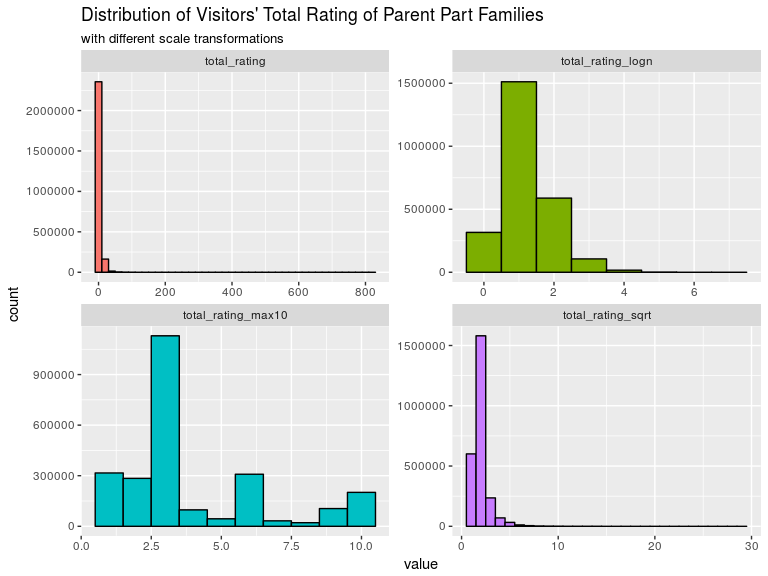
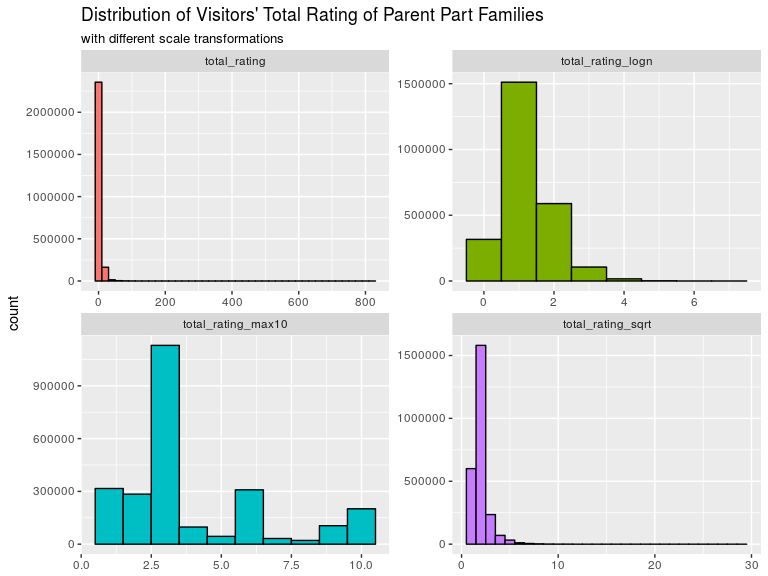
updated all sections leading up to collaborative filtering rec system development.

diff --git a/EDA_and_collaborative_filtering.md b/EDA_and_collaborative_filtering.md
@@ -11,13 +11,13 @@
     -   [How many unique visitors have interacted with each Parent Family?](#how-many-unique-visitors-have-interacted-with-each-parent-family)
         -   [Impact of Long Tail Distributions](#impact-of-long-tail-distributions)
     -   [How many PartNumbers fall into each Parent Family?](#how-many-partnumbers-fall-into-each-parent-family)
-    -   [(TO EXPLORE) Do Parents with more PartNumbers also have more overall visitor clicks?](#to-explore-do-parents-with-more-partnumbers-also-have-more-overall-visitor-clicks)
+    -   [Do Parents with more PartNumbers also have more overall visitor clicks?](#do-parents-with-more-partnumbers-also-have-more-overall-visitor-clicks)
     -   [What types of click Actions do the visitors take?](#what-types-of-click-actions-do-the-visitors-take)
     -   [(TO EXPLORE) What percent of the time is selecting a part a precursor to adding to cart?](#to-explore-what-percent-of-the-time-is-selecting-a-part-a-precursor-to-adding-to-cart)
 -   [More Data Wrangling: Creating Ratings](#more-data-wrangling-creating-ratings)
     -   [Convert Actions to Implicit Ratings](#convert-actions-to-implicit-ratings)
     -   [Creating a weighted Total Rating per item](#creating-a-weighted-total-rating-per-item)
-    -   [Total Rating of Parent by Visitor](#total-rating-of-parent-by-visitor)
+    -   [Different Scale Transformations for Total\_ratings](#different-scale-transformations-for-total_ratings)
     -   [Setting up a User Ratings Matrix](#setting-up-a-user-ratings-matrix)
 -   [Collaborative Filtering Algorithms](#collaborative-filtering-algorithms)
 -   [User Based Collaborative Filtering](#user-based-collaborative-filtering)
@@ -283,7 +283,7 @@ user_items %>%
              color = "black", linetype = "dashed", size = 0.5) +
   geom_text(aes(0,.002, family = "courier", label = paste("median = ", median(unique_part_count))), 
             nudge_x = 600, color = "black", size = 4.5) +
-  labs(title = 'Distribution of Unique PartNumber Interactions by each Visitor',
+  labs(title = 'Distribution of how many PartNumbers each Visitor interacted with',
        subtitle = 'binwidth of 100',
        x = 'Unique PartNumbers per Visitor')
 ```
@@ -309,7 +309,7 @@ user_items %>%
              color = "black", linetype = "dashed", size = 0.5) +
   geom_text(aes(0,.004, family = "courier", label = paste("median = ", median(unique_parent_count))), 
             nudge_x = 300, color = "black", size = 4.5) +
-  labs(title = 'Distribution of Unique Parent Interactions',
+  labs(title = 'Distribution of how many Parent categories each Visitor interacted with',
        subtitle = 'binwidth of 50',
        x = 'Unique Parent category per Visitor')
 ```
@@ -336,7 +336,7 @@ user_items %>%
              color = "black", linetype = "dashed", size = 0.5) +
   geom_text(aes(0,.04, family = "courier", label = paste("median = ", median(unique_users_count))), 
             nudge_x = 60, color = "black", size = 4.5) +
-  labs(title = 'Distribution of Unique Visitor Interactions for each PartNumber',
+  labs(title = 'Distribution of Unique Visitors for each PartNumber',
        subtitle = 'binwidth of 10',
        x = 'Unique Visitors per PartNumber (upper limit coerced to 500)')
 ```
@@ -404,22 +404,13 @@ user_items %>%
        Min. 1st Qu.  Median    Mean 3rd Qu.    Max. 
        1.00    2.00    6.00   15.31   14.00  786.00 
 
-### (TO EXPLORE) Do Parents with more PartNumbers also have more overall visitor clicks?
+### Do Parents with more PartNumbers also have more overall visitor clicks?
 
-IF we roll PartNumbers up to the parent level, there may be a potential concern that the frequency of ratings per a Parent category may be a function of the diversity of PartNumbers that make up the Parent. If this is the case, we'd likely see a correlation pattern between the frequency of PartNumbers per Parent and the number of unique visitors per Parent. In other words, the most popular parents could just be the ones with the most PartNumbers in these data.
+When we roll PartNumbers up to the parent level, the number of different users who interact with a Parent category may be a function of the tally of different PartNumbers that inheret from the Parent. If this is the case, we'd likely see a correlation between the frequency of PartNumbers per Parent and the number of unique visitors per Parent. Collaborative filtering methods are notorious for being biased by the the most popularly rated items, as those ratings will be a large influence in measuring inter-user similarity (user-based collaborative filtering) or inter-item similarity (item-based collaborative filtering).
 
-That could be a potential source of concern or area for further research in these data as collaborative filtering recommendations can be influenced by the most popular items.
+![](EDA_and_collaborative_filtering_files/figure-markdown_github/unnamed-chunk-24-1.png)
 
-``` r
-user_items %>%
-  group_by(Parent) %>%
-  distinct(VisitorId) %>% # only keep distinct visitors per Item.
-  summarize(unique_users_count = n()) %>%
-  with(summary(unique_users_count))
-```
-
-       Min. 1st Qu.  Median    Mean 3rd Qu.    Max. 
-       1.00   18.00   41.00  105.62   99.75 7063.00 
+However, this may be a necessary trade-off for these types of recommender systems as the more items in common that any pair of users have rated, the more robust the measures of similarity are, from which new recommendations can be made for items. For these algorithms to work well, it is important to adequately measure similar users or items, which is already difficult with very sparse matrices filled with primarily missing entries.
 
 ### What types of click Actions do the visitors take?
 
@@ -602,7 +593,7 @@ user_ratings <- user_items %>%
   arrange(VisitorId, total_rating)
 ```
 
-### Total Rating of Parent by Visitor
+### Different Scale Transformations for Total\_ratings
 
 I came up with 3 initial different ways to transform the total\_rating per Parent category for every user to tighten the distribution of total\_ratings. The 3 other transformations are a lognormal transformation, square root transformation, and coercing the upper limit to a max value of 10.
 
@@ -616,7 +607,8 @@ tidy_ratings %>%
   geom_histogram(data = filter(tidy_ratings, rating_type != "total_rating"), binwidth = 1, color = "black") + 
   facet_wrap(~ rating_type, scales = "free") +
   labs(title = "Distribution of Visitors' Total Rating of Parent Part Families",
-       subtitle = "with different scale transformations") +
+       subtitle = "with different scale transformations",
+       x = NULL) +
   guides(fill = FALSE) +
   scale_y_continuous(labels = function(n) format(n, scientific = FALSE)) # raw frequency scale
 ```
@@ -635,11 +627,11 @@ remove(tidy_ratings)
      3rd Qu.:  6.000   3rd Qu.: 2.449    3rd Qu.:1.792     3rd Qu.: 6.000    
      Max.   :818.000   Max.   :28.601    Max.   :6.707     Max.   :10.000    
 
-We can also look at the standard deviation for each of the 4 different total\_ratings too. Naturally, the raw total\_ratings will have the largest standardized variance b/c of its extreme right-skew. When applying a sqrt() or log() transformation, we see that the scores seem to be pretty scrunched together. Using a coercion method, such as capping the upper limit at a max total\_rating of 10 seems to balance keeping the scores in a reasonable range while allowing for variance between each Parent rating by each visitor. Total\_rating\_max10 will be what I use for these models going forward.
+We can also look at the standard deviation for each of the 4 different total\_ratings too. Naturally, the raw total\_ratings will have the largest standardized variance b/c of its extreme right-skew. When applying a sqrt() or log() transformation, the total\_ratings preserve their rank order but we also see that the scores are much more scrunched together in the middle 50% range of values, or interquartile range (IQR), also reflected by their low standard deviation. The last option I tried was using a coercion method, such as capping the upper limit at a max total\_rating of 10. Doing so seems to balance keeping the scores in a reasonable range while allowing for variance between each Parent rating by each visitor, especially in the IQR. Total\_rating\_max10 will be what I use for these models going forward.
 
 ``` r
 library(purrr)
-map_dbl(user_ratings[3:6], sd)
+map_dbl(user_ratings[3:6], sd) # get the standard deviation for each total_rating type.
 ```
 
           total_rating  total_rating_sqrt  total_rating_logn 
@@ -649,14 +641,80 @@ map_dbl(user_ratings[3:6], sd)
 
 ### Setting up a User Ratings Matrix
 
+We're at the point now where we have a dataset where each row represents the total\_rating of a specific item (Parent) made by a specific VisitorID.
+
+``` r
+sample_n(user_ratings[,1:3], 10) %>%
+  kable(align = 'c')
+```
+
+|   VisitorId   |   Parent   | total\_rating |
+|:-------------:|:----------:|:-------------:|
+|  818941368696 | O67-469464 |       2       |
+| 7291558866614 | M66-371260 |       2       |
+|  514053808745 | M66-370525 |       21      |
+|  513450892594 | O65-463869 |       2       |
+| 9316952538593 | O65-492394 |       1       |
+| 1418024805801 | P66-300760 |       3       |
+|  731626368751 | P65-301955 |       6       |
+|  906738707619 | N66-547772 |       6       |
+| 1123528858267 | P65-307839 |       12      |
+|  901345656160 | P66-304450 |       18      |
+
+These 3 components are all that is needed to craete a user-items rating matrix. The rows of the matrix will represent individual users, columns will represent the distinct Parent categories, and the elements in the matrix will represent the respective total\_rating of the item.
+
+To make the storage of the matrix memory efficient, a sparse matrix will be used. A sparse matrix, using a package like `matrix` only fills the non-missing entries in the matrix, making them [very memory efficient](http://www.johnmyleswhite.com/notebook/2011/10/31/using-sparse-matrices-in-r/) for large matrix objects.
+
+The row (i) and column (j) indices of a matrix need to be 1 starting index based. The easiest way to facilitate this while still being able to map the row and column labels is to coerce the VisitorId and Parent columns in our dataset to as.factor() and then to as.integer(). When coercing to a factor, the values will be alphabetically sorted by default. We can then pass dimension names to the row and columns of the matrix by passing the unique, sorted VisitorId and Parent labels. See code below for details.
+
+``` r
+library(Matrix)
+# sparse ratings matrix.
+# https://stackoverflow.com/questions/28430674/create-sparse-matrix-from-data-frame?noredirect=1&lq=1
+# the VisitorId and Parent need to be 1 based indices when creating a matrix. 
+# Per ?factor, the levels of a factor are by default sorted.
+sparse_r <- sparseMatrix(i = as.integer(as.factor(user_ratings$VisitorId)), 
+                         j = as.integer(as.factor(user_ratings$Parent)),
+                         x = user_ratings$total_rating_max10)
+
+# can rename the matrix row and column labels with unique VisitorId and Parent names. 
+dimnames(sparse_r) <- list(sort(unique(user_ratings$VisitorId)),
+                           sort(unique(user_ratings$Parent)))
+```
+
+We can check that the levels of the coerced factor are identical name position matches to the dimnames that we passed as labels to the rows and columns of the sparse matrix.
+
+``` r
+all.equal(levels(as.factor(user_ratings$VisitorId)), 
+          sort(unique(user_ratings$VisitorId))) 
+```
+
+    [1] TRUE
+
+``` r
+all.equal(levels(as.factor(user_ratings$Parent)), 
+          sort(unique(user_ratings$Parent))) 
+```
+
+    [1] TRUE
+
+``` r
+# class(sparse_r)
+# dim(sparse_r)
+# attributes(sparse_r)
+# str(sparse_r) # it's an S4 object. use slots (@) to access elements. 
+```
+
 Collaborative Filtering Algorithms
 ----------------------------------
 
+According to Aggawal (2016), collaborative filtering models use the "power of the ratings provided by multiple users to make recommendations" (1.3.1). By finding out how users are similar to each other based on how they may rate the same items in a correlated way, or how items may be rated in a correlated way across different users, an algorithm can leverage these correlations or measures of similarity as the basis to predict and recommend new items not yet rated by an indvidual.
+
 For collaborative filtering recommender systems, the recommendations are largely based on the ability to identify recommendations by
 
--   1.  finding similar users who've rated the same items similarly to me, which addresses a recommendation hypothesis of "what other users are like me, and what items do they purchase?". This is known as **user-based collaborative filtering**. It finds users who have similar interest in items as you and recommends new items based on what they may rate highly.
+-   1.  finding similar users who've rated the same items similarly to me. This method addresses a recommendation hypothesis of "what other users are like me, and what items do they purchase?" This is known as **user-based collaborative filtering**. It finds users who have similar interest in items as you and recommends new items based on a weighted formula of what they rate highly that you haven't yet looked at or purchased.
 
--   1.  We can also make recommendations by finding items that are similarly rated to the ones that a user has rated. In this case, neighborhoods are defined not by similar users but by items with similar ratings pattern to items the user has already rated. This is known as **item-based collaborative filtering**. It addresses a recommendation hypothesis of "people who liked this also tend to like this" or "What items are most similar to the ones that I’ve purchased that may interest me?"
+-   1.  We can also make recommendations by finding items that are similarly rated to the ones that a user has rated. In this case, neighborhoods are defined not by similar users but by items with similar ratings pattern across users. These item similarity measures are then compared to the items the user has already rated. This is known as **item-based collaborative filtering**. It addresses a recommendation hypothesis of "people who liked this also tend to like this" or "What items are most similar to the ones that I’ve purchased that may interest me?"
 
 User Based Collaborative Filtering
 ----------------------------------
